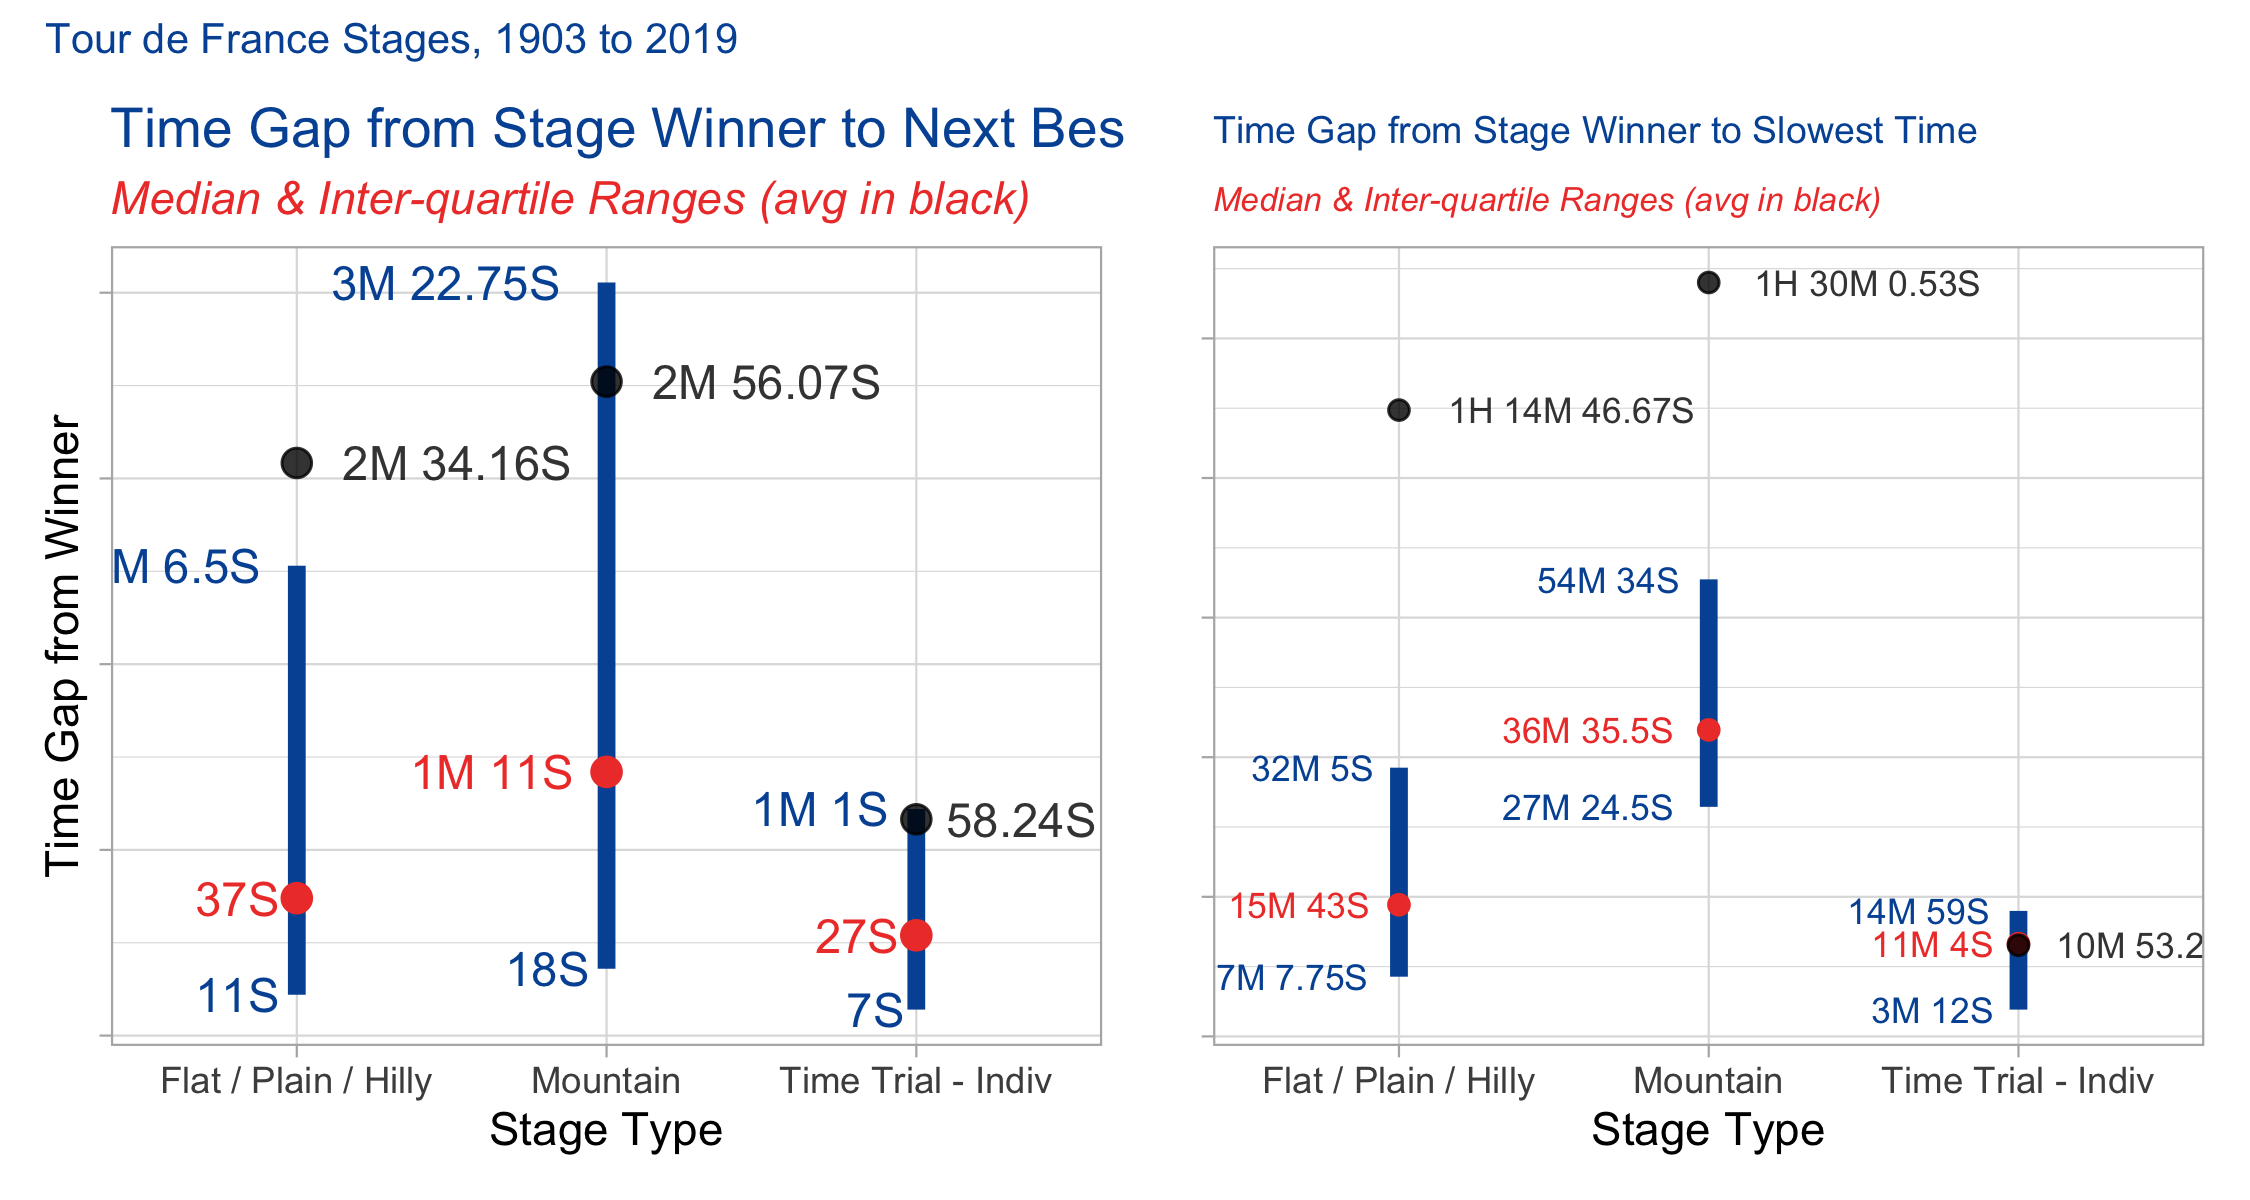
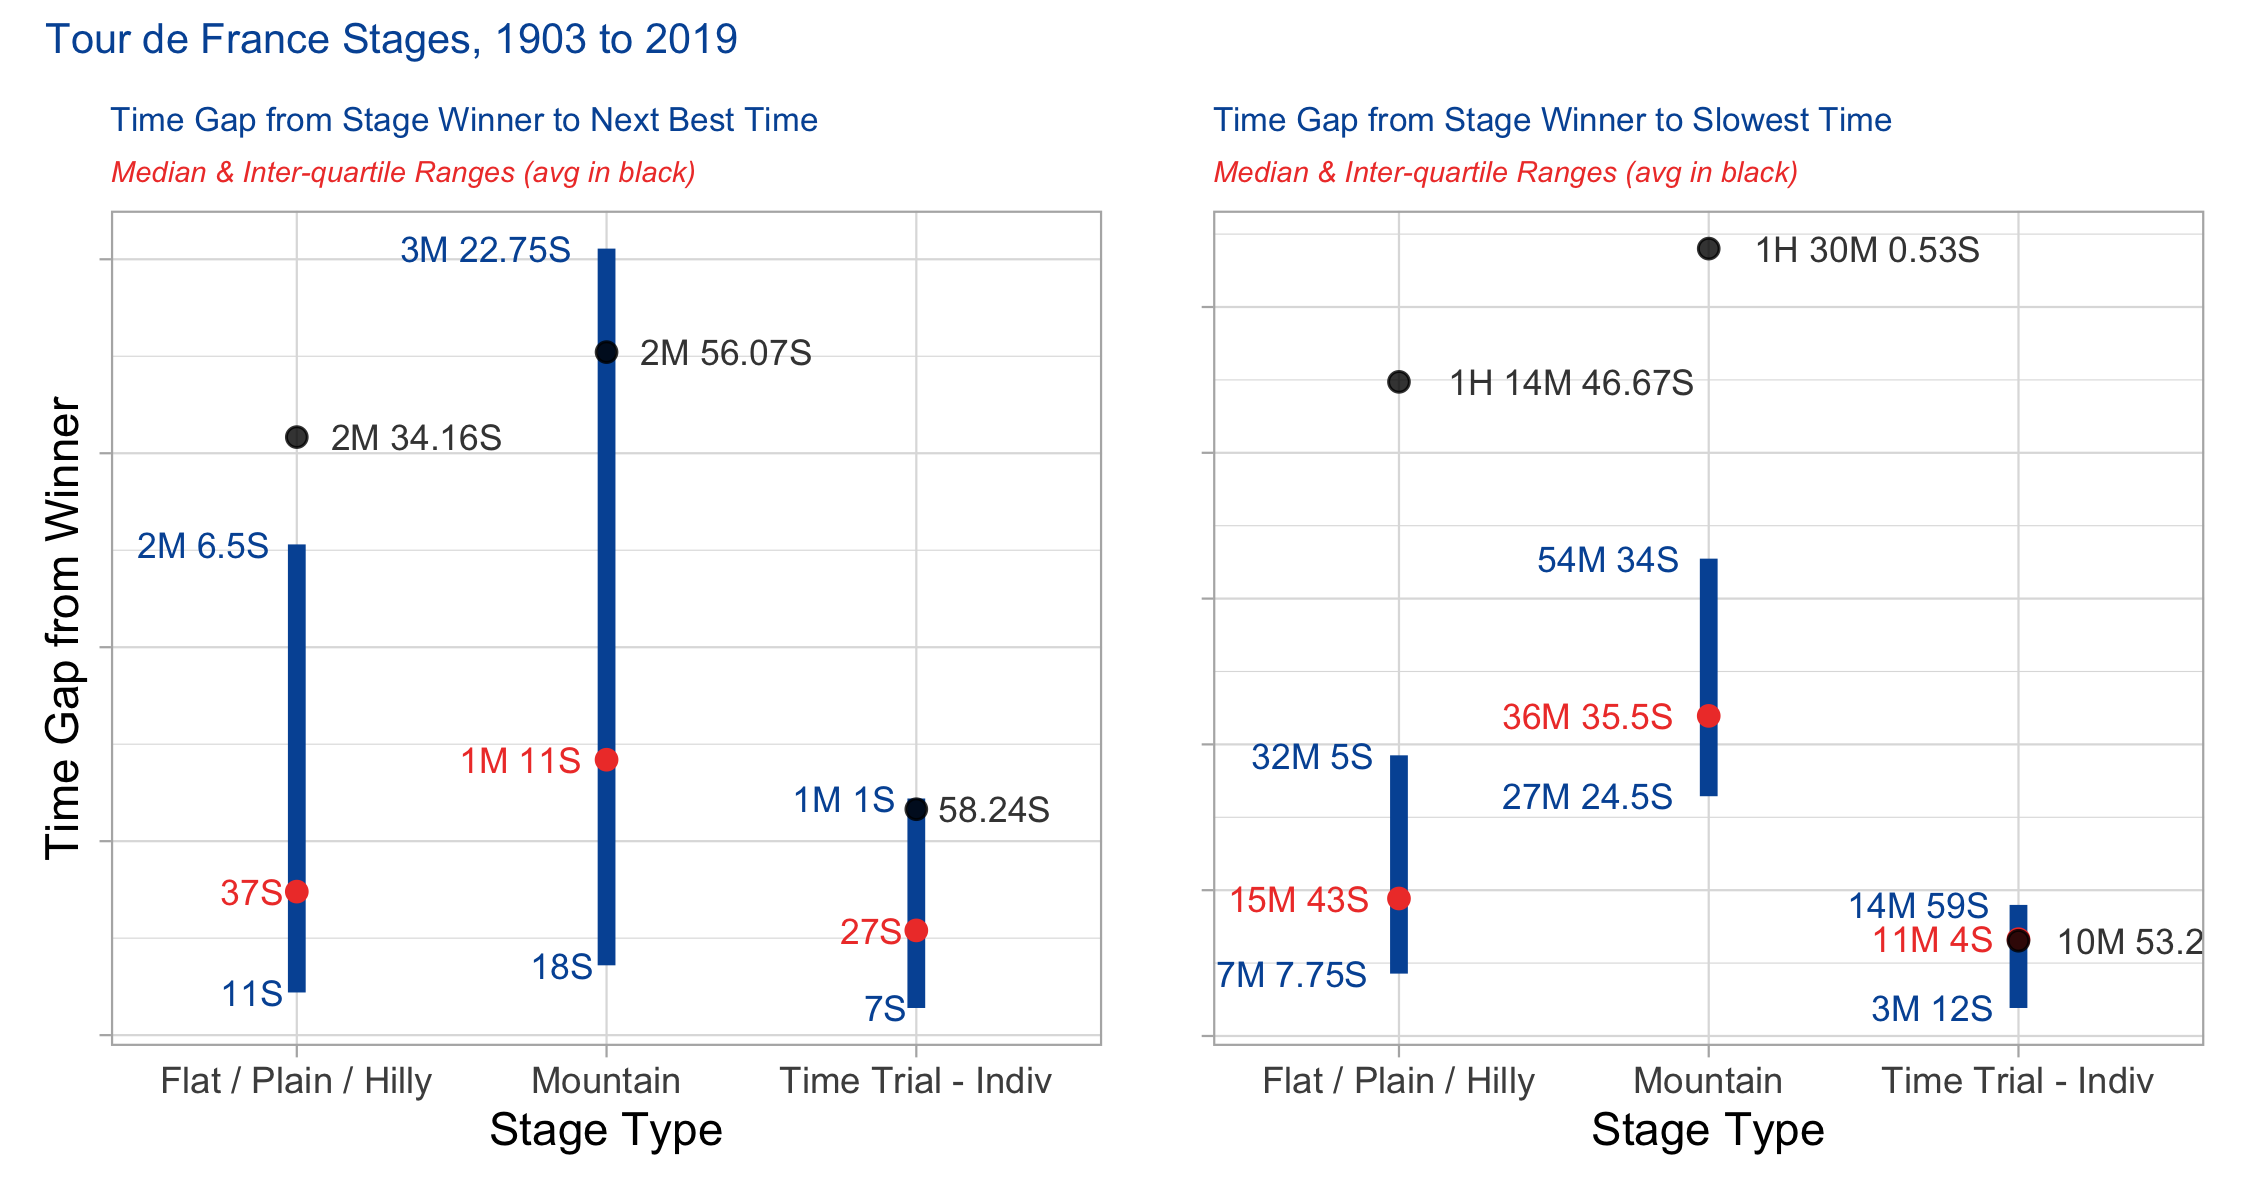
le tour stage 3

diff --git a/2020/tt_2020-04-07_letour/README.md b/2020/tt_2020-04-07_letour/README.md
@@ -398,22 +398,23 @@ gapranges %>%
   filter(compare_grp == "Next best") %>%
   ggplot(aes(stage_type, medgap, color = avggap)) +
   geom_linerange(aes(ymin = lq, ymax = uq), size = 2, color = "#0055A4") +
-  geom_point(size = 3, color = "#EF4135") +
-  geom_point(aes(y = avggap), size = 3, color = "black", alpha = .8) +
+  geom_point(size = 2, color = "#EF4135") +
+  geom_point(aes(y = avggap), size = 2, color = "black", alpha = .8) +
   geom_text(aes(label = medgap_tp), 
-            size = 4, color = "#EF4135", hjust = 1.2) +
+            size = 3, color = "#EF4135", hjust = 1.2) +
   geom_text(aes(y = uq, label = uq_tp), 
-            size = 4, color = "#0055A4", hjust = 1.2) +
+            size = 3, color = "#0055A4", hjust = 1.2) +
   geom_text(aes(y = lq, label = lq_tp), 
-            size = 4, color = "#0055A4", hjust = 1.2) +
+            size = 3, color = "#0055A4", hjust = 1.2) +
   geom_text(aes(label = avggap_tp, y = avggap_tp),
-            size = 4, color = "black", alpha = .8, hjust = -.2) +
+            size = 3, color = "black", alpha = .8, hjust = -.2) +
   labs(title = "Time Gap from Stage Winner to Next Best Time",
        subtitle = "Median & Inter-quartile Ranges (avg in black)",
        y = "Time Gap from Winner", x = "Stage Type") +
   theme_light() +
-  theme(plot.title = element_text(color = "#0055A4"),
-        plot.subtitle = element_text(face = "italic", color = "#EF4135"),
+  theme(plot.title = element_text(color = "#0055A4", size = 8),
+        plot.subtitle = element_text(face = "italic", color = "#EF4135",
+                                     size = 7),
         axis.text.y=element_blank())
 
 gapplot2 <-
@@ -435,9 +436,9 @@ gapranges %>%
        subtitle = "Median & Inter-quartile Ranges (avg in black)",
        y = "", x = "Stage Type") +
   theme_light() +
-  theme(plot.title = element_text(color = "#0055A4", size = 9),
+  theme(plot.title = element_text(color = "#0055A4", size = 8),
         plot.subtitle = element_text(face = "italic", color = "#EF4135",
-                                     size = 8),
+                                     size = 7),
         axis.text.y=element_blank())
 
 gapplot1 + gapplot2 +
